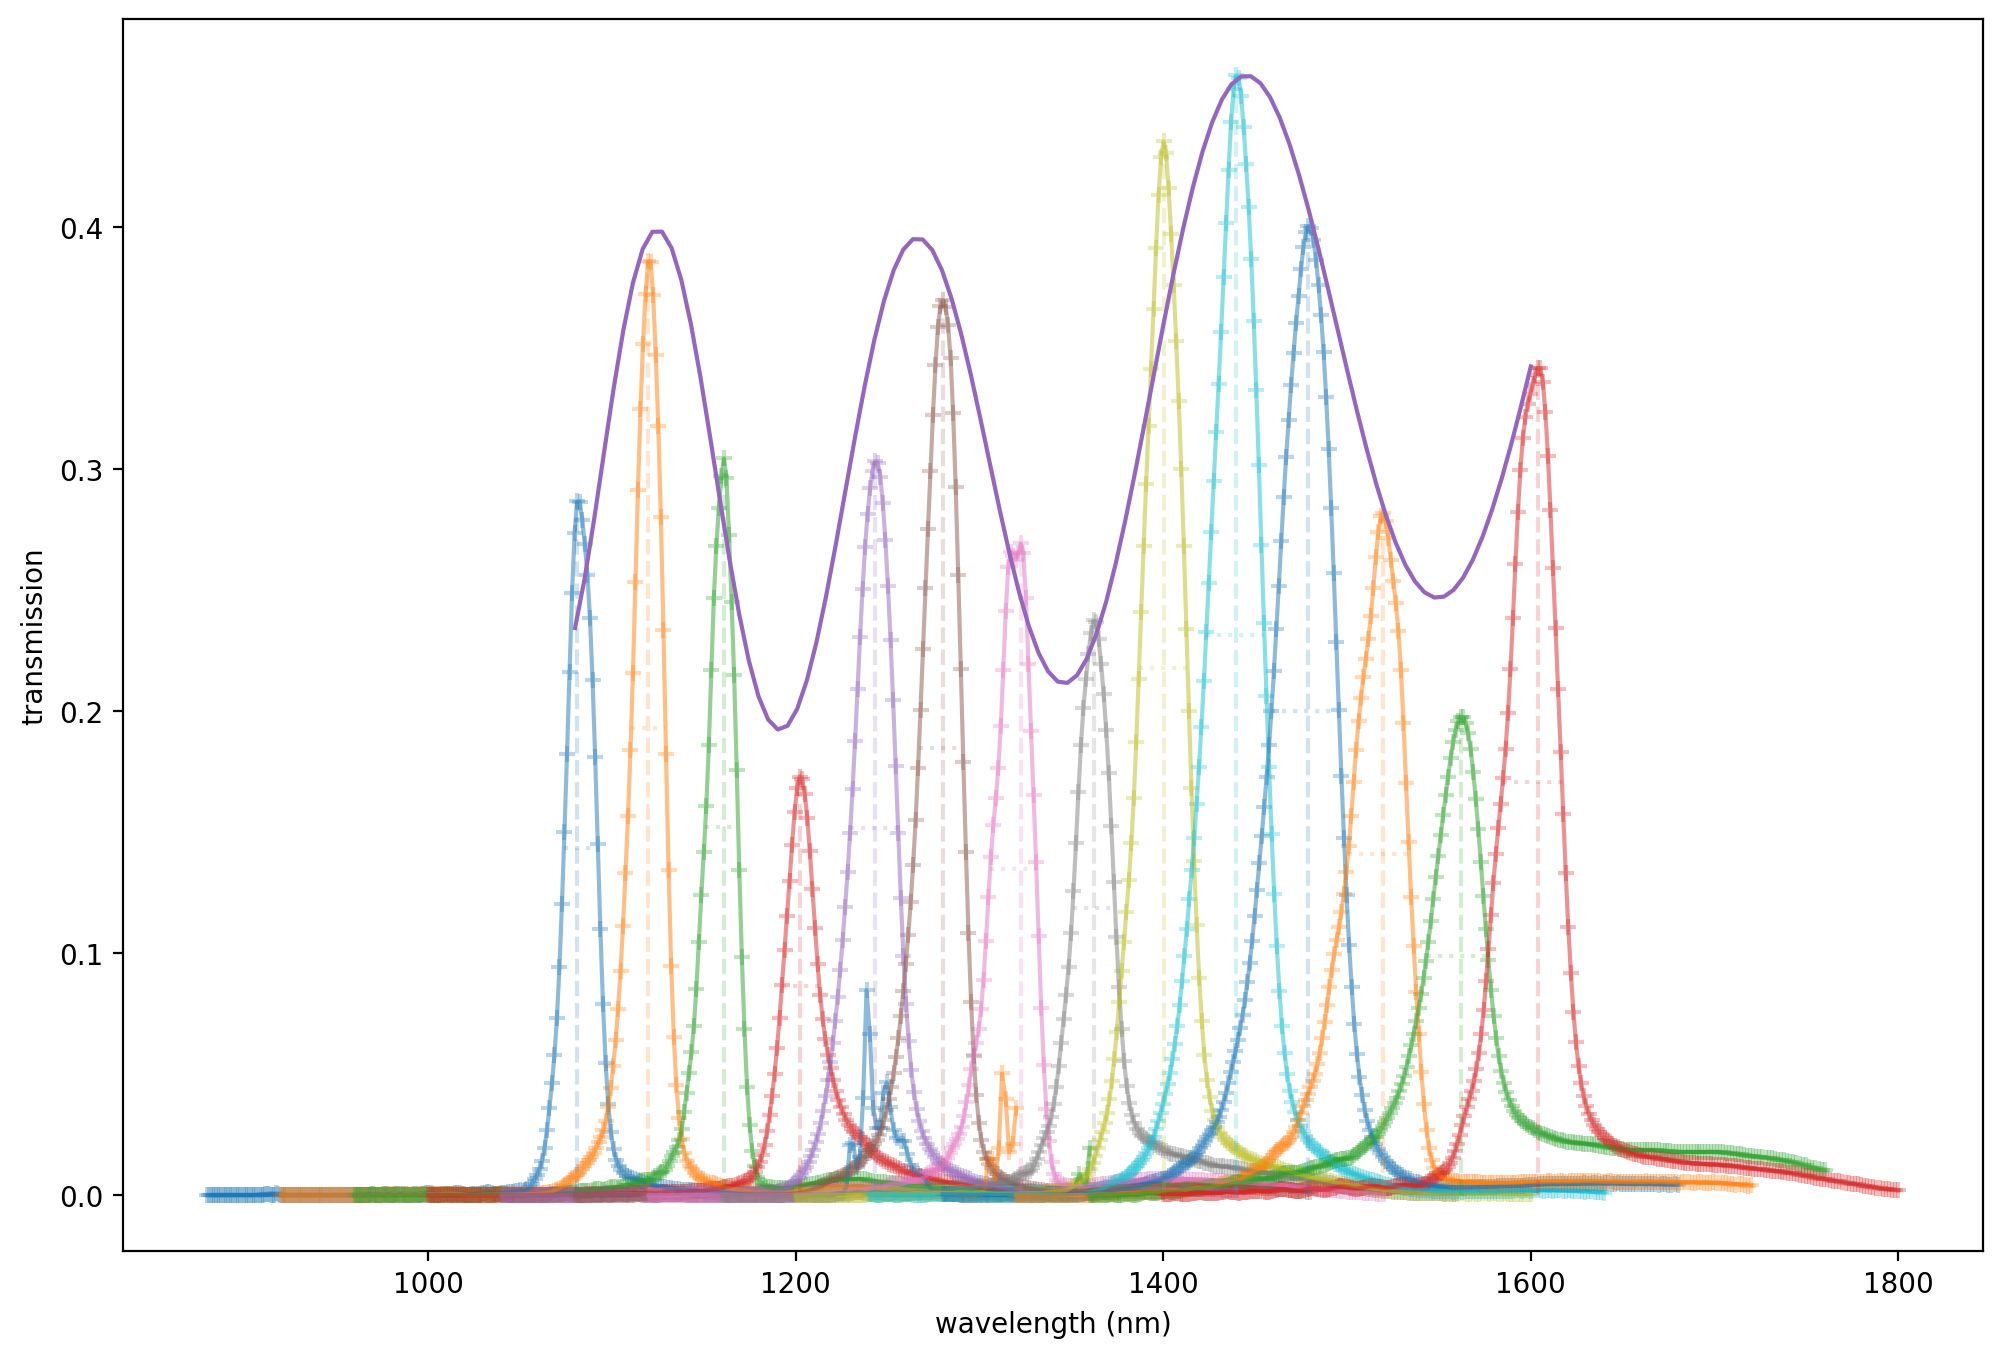
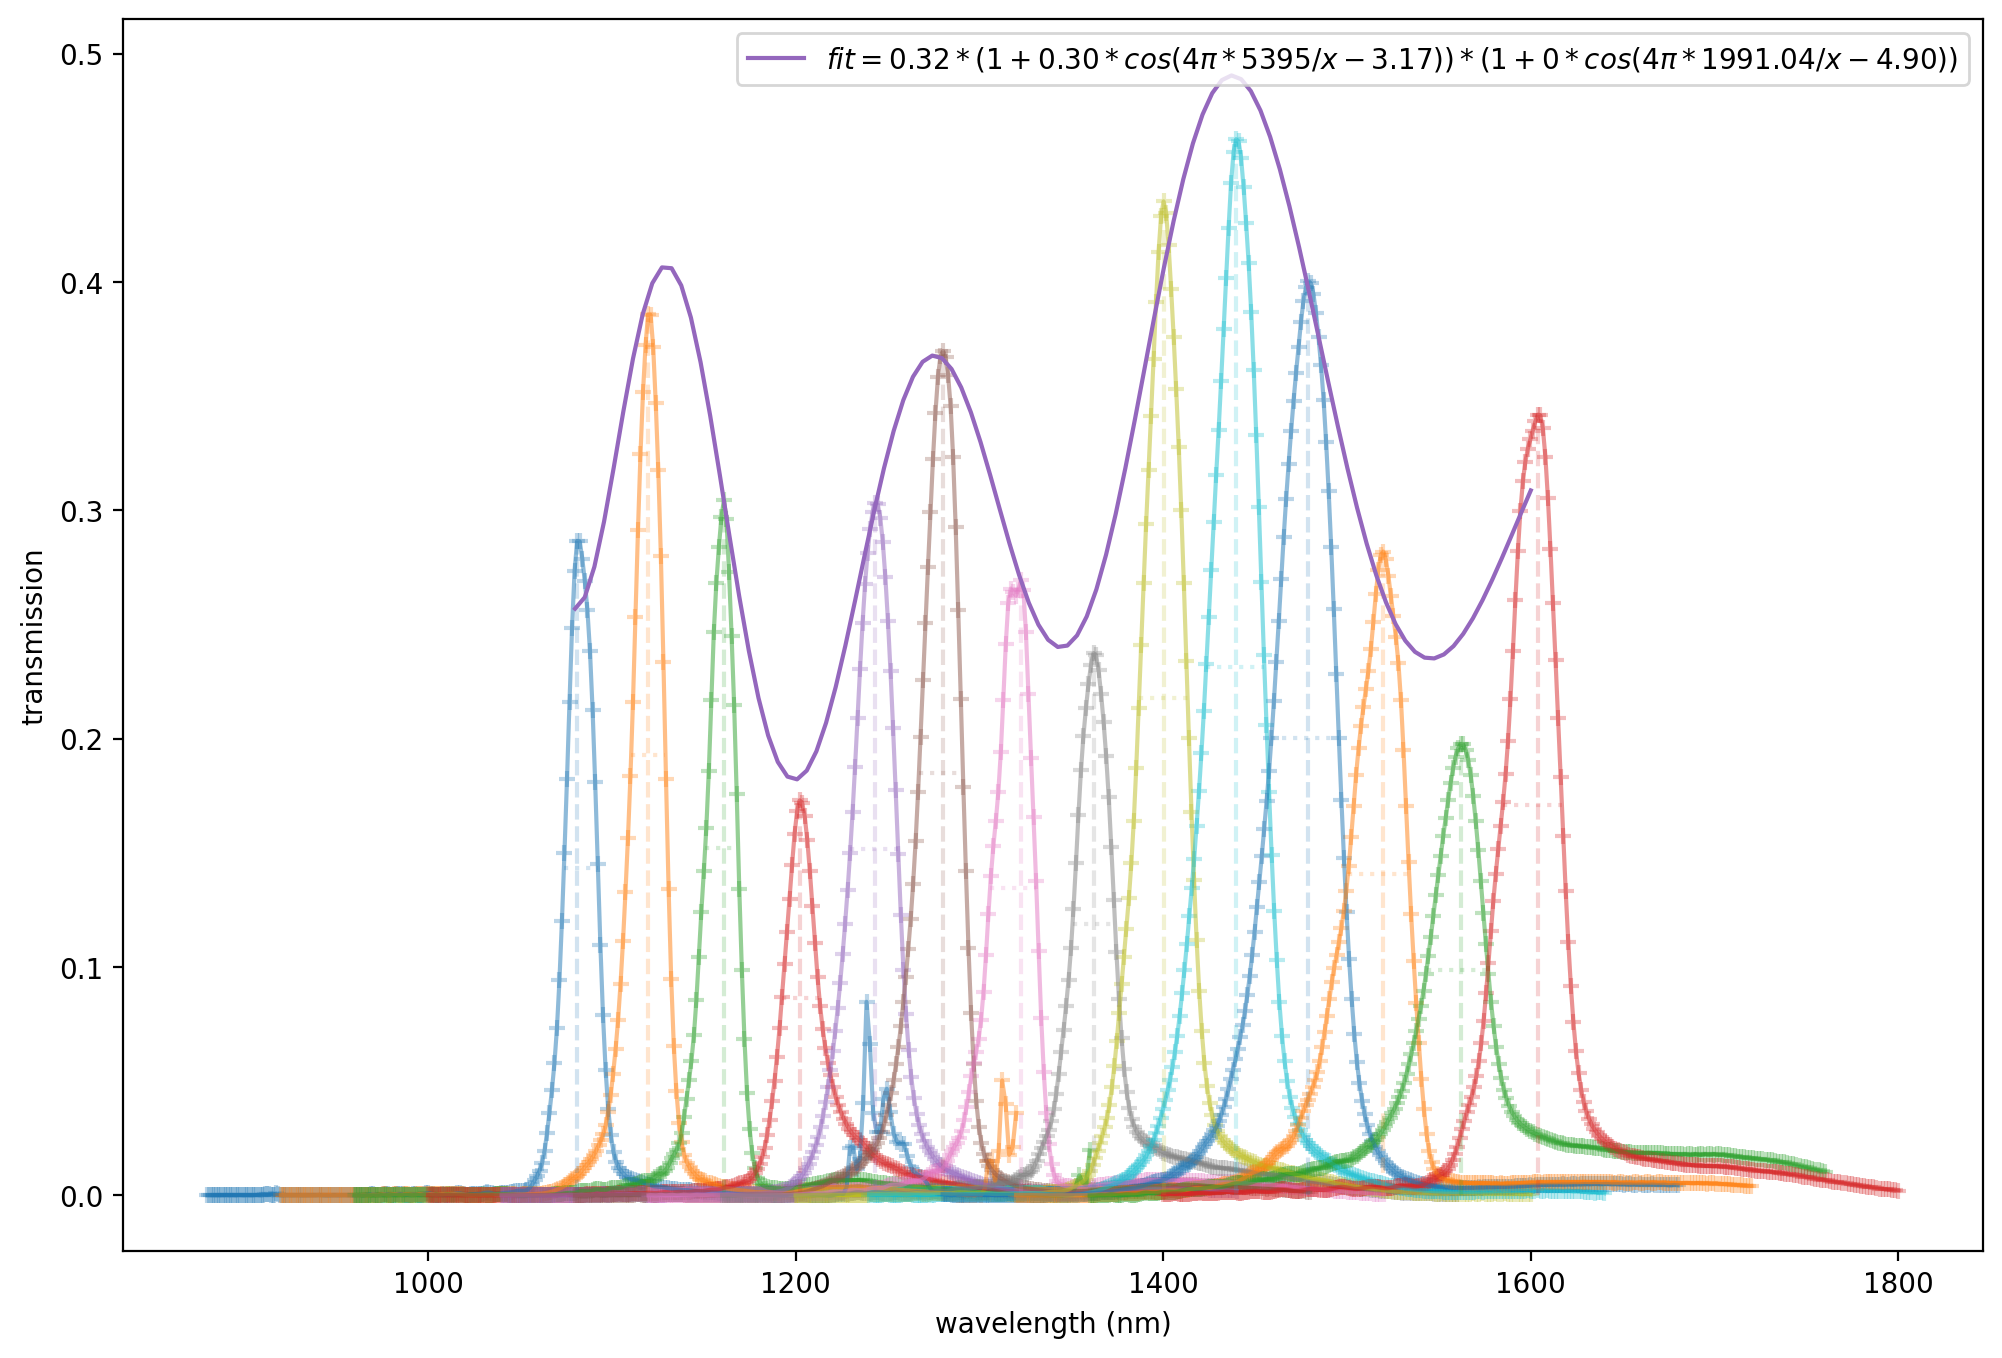
updategrating_800-1700_relased,airclad

diff --git a/230823_lumapi_try/grating_sweep/grating_sweep_compare_transmission.py b/230823_lumapi_try/grating_sweep/grating_sweep_compare_transmission.py
@@ -21,7 +21,8 @@ if __name__ == "__main__":
         "674e",
         "a72b",
         "aa7c",
-        # "1807",
+        "b60c",
+        "338d",
     ]
     lambdaList = [
         # 1080,
@@ -36,20 +37,19 @@ if __name__ == "__main__":
         1440,
         1480,
         1520,
-        # 1560,
+        1560,
+        1600,
     ]
     ampList = []
     x0List = []
+    dataList = []
     for uuid, lambda_0 in zip(uuidList, lambdaList):
         dataName = "{:s}_{:.1f}_bw=20.0_transmission.txt".format(uuid, lambda_0)
         data = np.loadtxt(dataName)
-        amp, x0, _, _ = arb_fit_1d(
-            ax, data[:, 0] * 1e3, data[:, 1], "{:.1f}".format(lambda_0)
-        )
+        amp, x0, _, _ = arb_fit_1d(False, data[:, 0] * 1e3, data[:, 1], "", label=False)
         ampList.append(amp)
         x0List.append(x0)
-
-    # print(ampList)
+        dataList.append(data)
 
     # fit amp-x0 using amp = A*sin(ax+b)+B
     # def f(x, A, g, d, b):
@@ -61,36 +61,40 @@ if __name__ == "__main__":
             * (1 + g1 * np.cos(4 * np.pi * d1 / x + b1))
         )
 
+    def plot_data(A, g, d, b, g1, d1, b1):
+        for data in dataList:
+            amp, x0, _, _ = arb_fit_1d(
+                ax, data[:, 0] * 1e3, data[:, 1], "", label=False
+            )
+        # popt = [0.5, 0.49, 4000, -3, 0.5, 230, 1]
+        popt = [A, g, d, b, g1, d1, b1]
+        x = np.linspace(np.min(lambdaList), np.max(lambdaList), 100)
+        ax.plot(
+            x,
+            f(x, *popt),
+            label=r"$fit={:.2f}*(1+{:.2f}*cos(4\pi*{:.0f}/x{:+.2f}))* (1+{:.0f}*cos(4\pi*{:.2f}/x{:+.2f}))$".format(
+                *popt
+            ),
+        )
+
+    # print(ampList)
+
     from scipy.optimize import curve_fit
 
-    # popt, pcov = curve_fit(
-    #     f,
-    #     x0List,
-    #     ampList,
-    #     p0=[0.3, 0.5, 3900, 0],
-    #     bounds=([0, 0, 0, -2 * np.pi], [1, 1, 6000, 2 * np.pi]),
-    # )
     popt, pcov = curve_fit(
         f,
         x0List,
         ampList,
-        p0=[0.9, 0.4, 3900, 0, 0.8, 230, 0],
+        p0=[0.29, 0.52, 4000, -3, 0.02, 327, -3],
         bounds=(
             [0, 0, 0, -2 * np.pi, 0, 0, -2 * np.pi],
             [1, 1, 6000, 2 * np.pi, 1, 1000, 2 * np.pi],
         ),
     )
     print(popt)
-    # popt = [0.2, 1 / 500, 0, 0]
-    x = np.linspace(np.min(lambdaList), np.max(lambdaList), 100)
-    ax.plot(
-        x,
-        f(x, *popt),
-        label=r"$fit={:.2f}*(1+{:.2f}*cos(4 \pi x/{:.2f}+{:.2f}))$".format(*popt),
-    )
-    ax.set_xlabel("wavelength (nm)")
-    ax.set_ylabel("transmission")
-    ax.legend()
+    # ax.set_xlabel("wavelength (nm)")
+    # ax.set_ylabel("transmission")
+    # ax.legend()
     #
-    plt.savefig("grating_sweep_compare_transmission.png", dpi=200, bbox_inches="tight")
-    plt.show()
+    # plt.savefig("grating_sweep_compare_transmission.png", dpi=200, bbox_inches="tight")
+    # plt.show()

diff --git a/230823_lumapi_try/grating_sweep_airclad/grating_sweep_airclad_compare_transmission.py b/230823_lumapi_try/grating_sweep_airclad/grating_sweep_airclad_compare_transmission.py
@@ -46,7 +46,7 @@ if __name__ == "__main__":
         dataName = "{:s}_{:.1f}_bw=20.0_transmission.txt".format(uuid, lambda_0)
         data = np.loadtxt(dataName)
         amp, x0, _, _ = arb_fit_1d(
-            ax, data[:, 0] * 1e3, data[:, 1], "{:.1f}".format(lambda_0)
+            ax, data[:, 0] * 1e3, data[:, 1], "{:.1f}".format(lambda_0), label=False
         )
         ampList.append(amp)
         x0List.append(x0)
@@ -67,10 +67,10 @@ if __name__ == "__main__":
         f,
         x0List,
         ampList,
-        p0=[0.34, 0.3, 5100, -0.8, 0.15, 900, -1],
+        p0=[0.34, 0.3, 5100, -0.8, 0.14, 1500, -1],
         bounds=(
             [0, 0, 0, -2 * np.pi, 0, 0, -2 * np.pi],
-            [1, 1, 6000, 2 * np.pi, 1, 1000, 2 * np.pi],
+            [1, 1, 8000, 2 * np.pi, 1, 3000, 2 * np.pi],
         ),
     )
     print(popt)
@@ -79,11 +79,13 @@ if __name__ == "__main__":
     ax.plot(
         x,
         f(x, *popt),
-        label=r"$fit={:.2f}*(1+{:.2f}*cos(4 \pi x/{:.2f}+{:.2f}))$".format(*popt),
+        label=r"$fit={:.2f}*(1+{:.2f}*cos(4\pi*{:.0f}/x{:+.2f}))* (1+{:.0f}*cos(4\pi*{:.2f}/x{:+.2f}))$".format(
+            *popt
+        ),
     )
     ax.set_xlabel("wavelength (nm)")
     ax.set_ylabel("transmission")
-    # ax.legend()
+    ax.legend()
     #
     plt.savefig(
         "grating_sweep_airclad_compare_transmission.png", dpi=200, bbox_inches="tight"

diff --git a/230823_lumapi_try/work_loader.py b/230823_lumapi_try/work_loader.py
@@ -796,11 +796,32 @@ if __name__ == "__main__":  # type: ignore
     #     work_grating_1_1560_airclad,
     #     work_grating_1_1600_airclad,
     # ]
-    works = [work_grating_1_1560_released, work_grating_1_1600_released]
+    import numpy as np
+
+    works = []
+    work_template = {
+        "FWHM": 20e-9,
+        "penalty": [[0.01, 10e-9], [0.02, 100e-9]],
+        "N": 35,
+        "maxiter": 80,
+        "FOM_typ": "square",
+        "grating_typ": "grating",
+        "start_radius": 12e-6,
+    }
+    for lambda_0 in range(800, 1720, 20):
+        work = work_template.copy()
+        work["lambda_0"] = lambda_0 * 1e-9
+        work["SOURCE_typ"] = "gaussian_released"
+        works.append(work)
+    # for lambda_0 in range(820, 1720, 20):
+    #     work = work_template.copy()
+    #     work["lambda_0"] = lambda_0 * 1e-9
+    #     work["SOURCE_typ"] = "gaussian_airclad"
+    #     works.append(work)
     # works = [work_4e25_1280, work_4e25_1370]
     # works = [work_4e25_inverse]
     # works = [work_4e25_packaged, work_4e25_packaged_23, work_grating_1_packaged]
-    work_loader(works, prefix="grating_1560,1600_relased")
+    work_loader(works, prefix="grating_800-1700_relased,airclad")
     # work_loader(works, prefix="grating_1560,1600_airclad")
     # work_loader(works, prefix="4e25_square_bw100_inverse")
     # work_loader(works_test)

diff --git a/lib/gaussian/gaussian_fit_1d.py b/lib/gaussian/gaussian_fit_1d.py
@@ -83,7 +83,7 @@ def gaussian_fit_1d(ax, x_data, y_data, name, x_range=None):
     return amp, x0, FWMH
 
 
-def arb_fit_1d(ax, x_data, y_data, name, x_range=None):
+def arb_fit_1d(ax, x_data, y_data, name, x_range=None, label=True):
     x_data, y_data = _data_wrapper(x_data, y_data, x_range)
     max_index = np.argmax(y_data)
     amp_coarse = y_data[max_index]
@@ -153,7 +153,9 @@ def arb_fit_1d(ax, x_data, y_data, name, x_range=None):
     ax.plot(
         x_data,
         y_data,
-        label="{:s}, {:.1f}_{:.1f}_{:.1f}dB".format(name, x0, FWMH, CE),
+        label="{:s}, {:.1f}_{:.1f}_{:.1f}dB".format(name, x0, FWMH, CE)
+        if label
+        else None,
         alpha=0.5,
     )
     #
